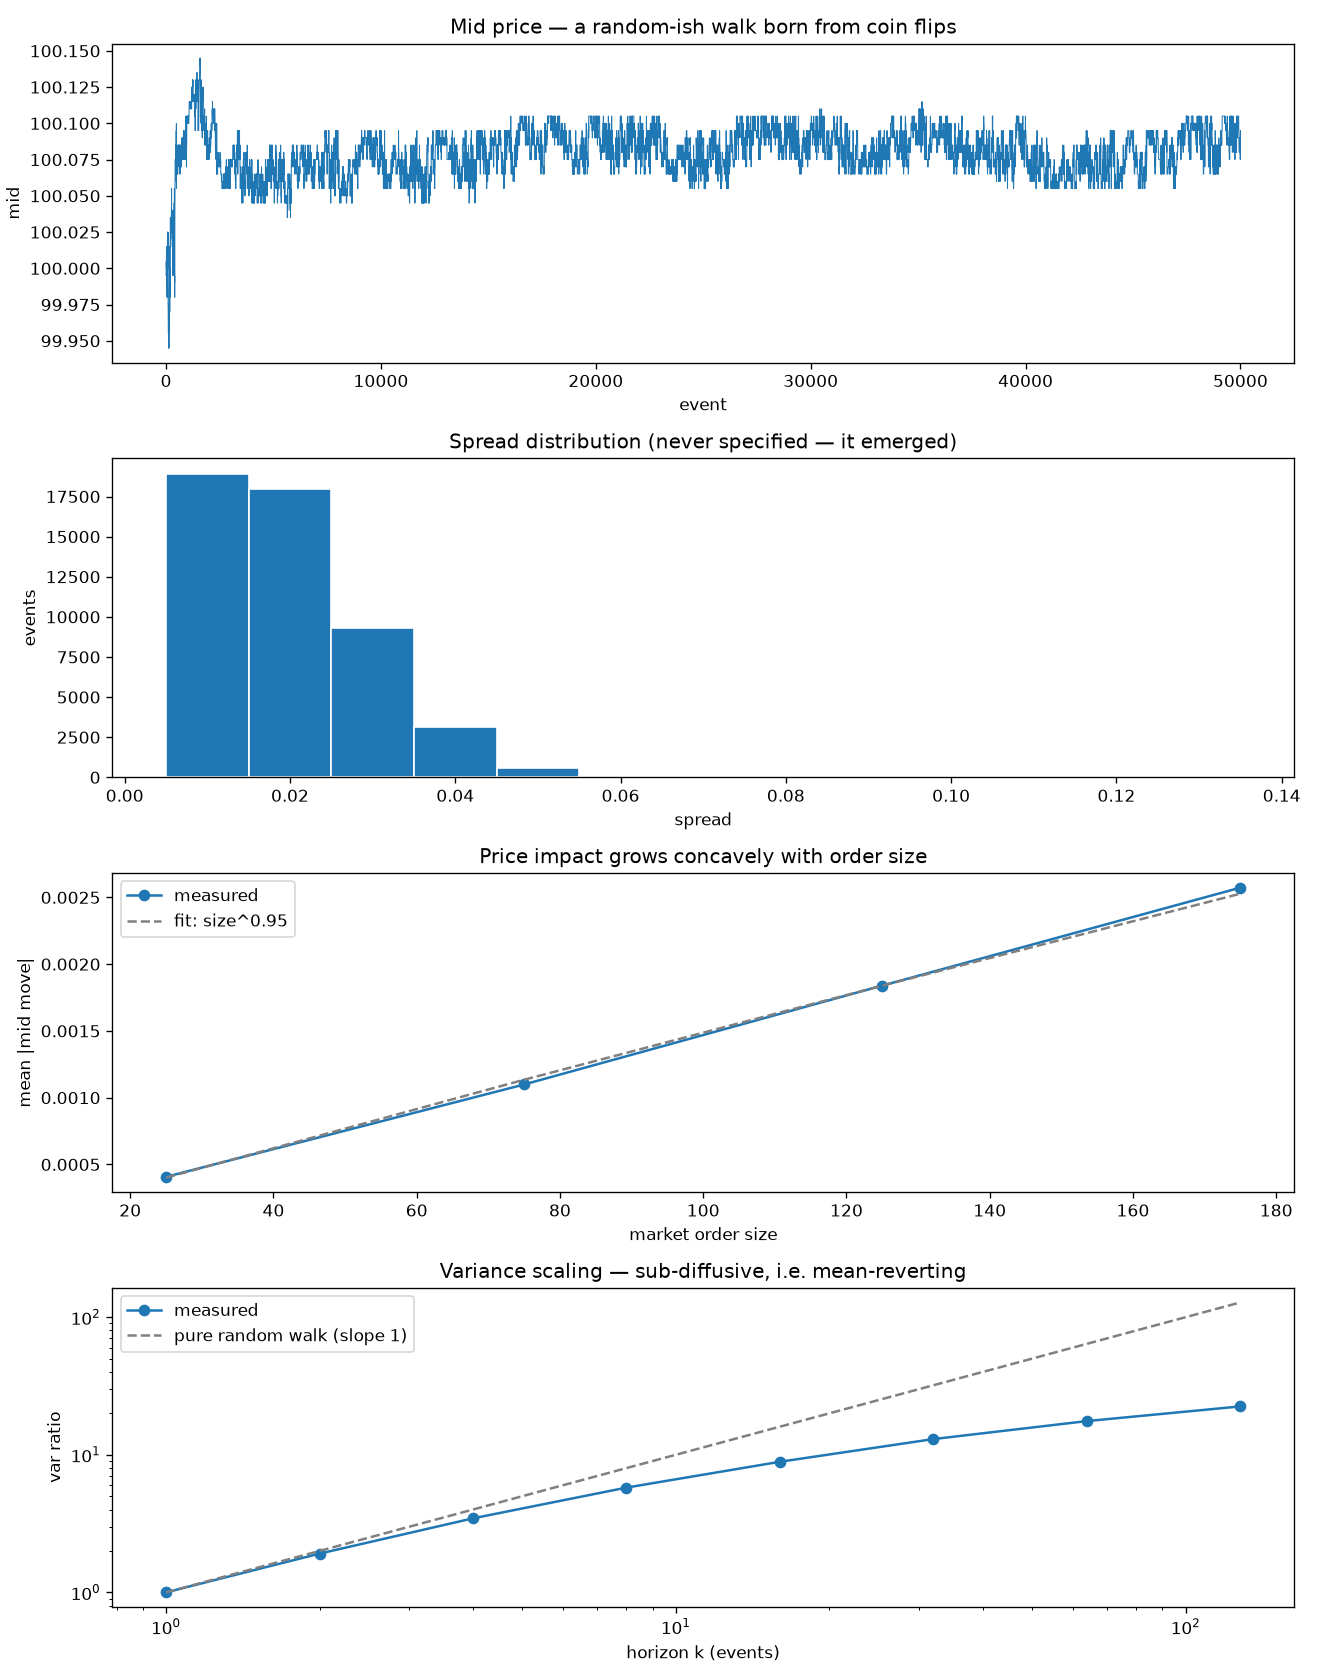
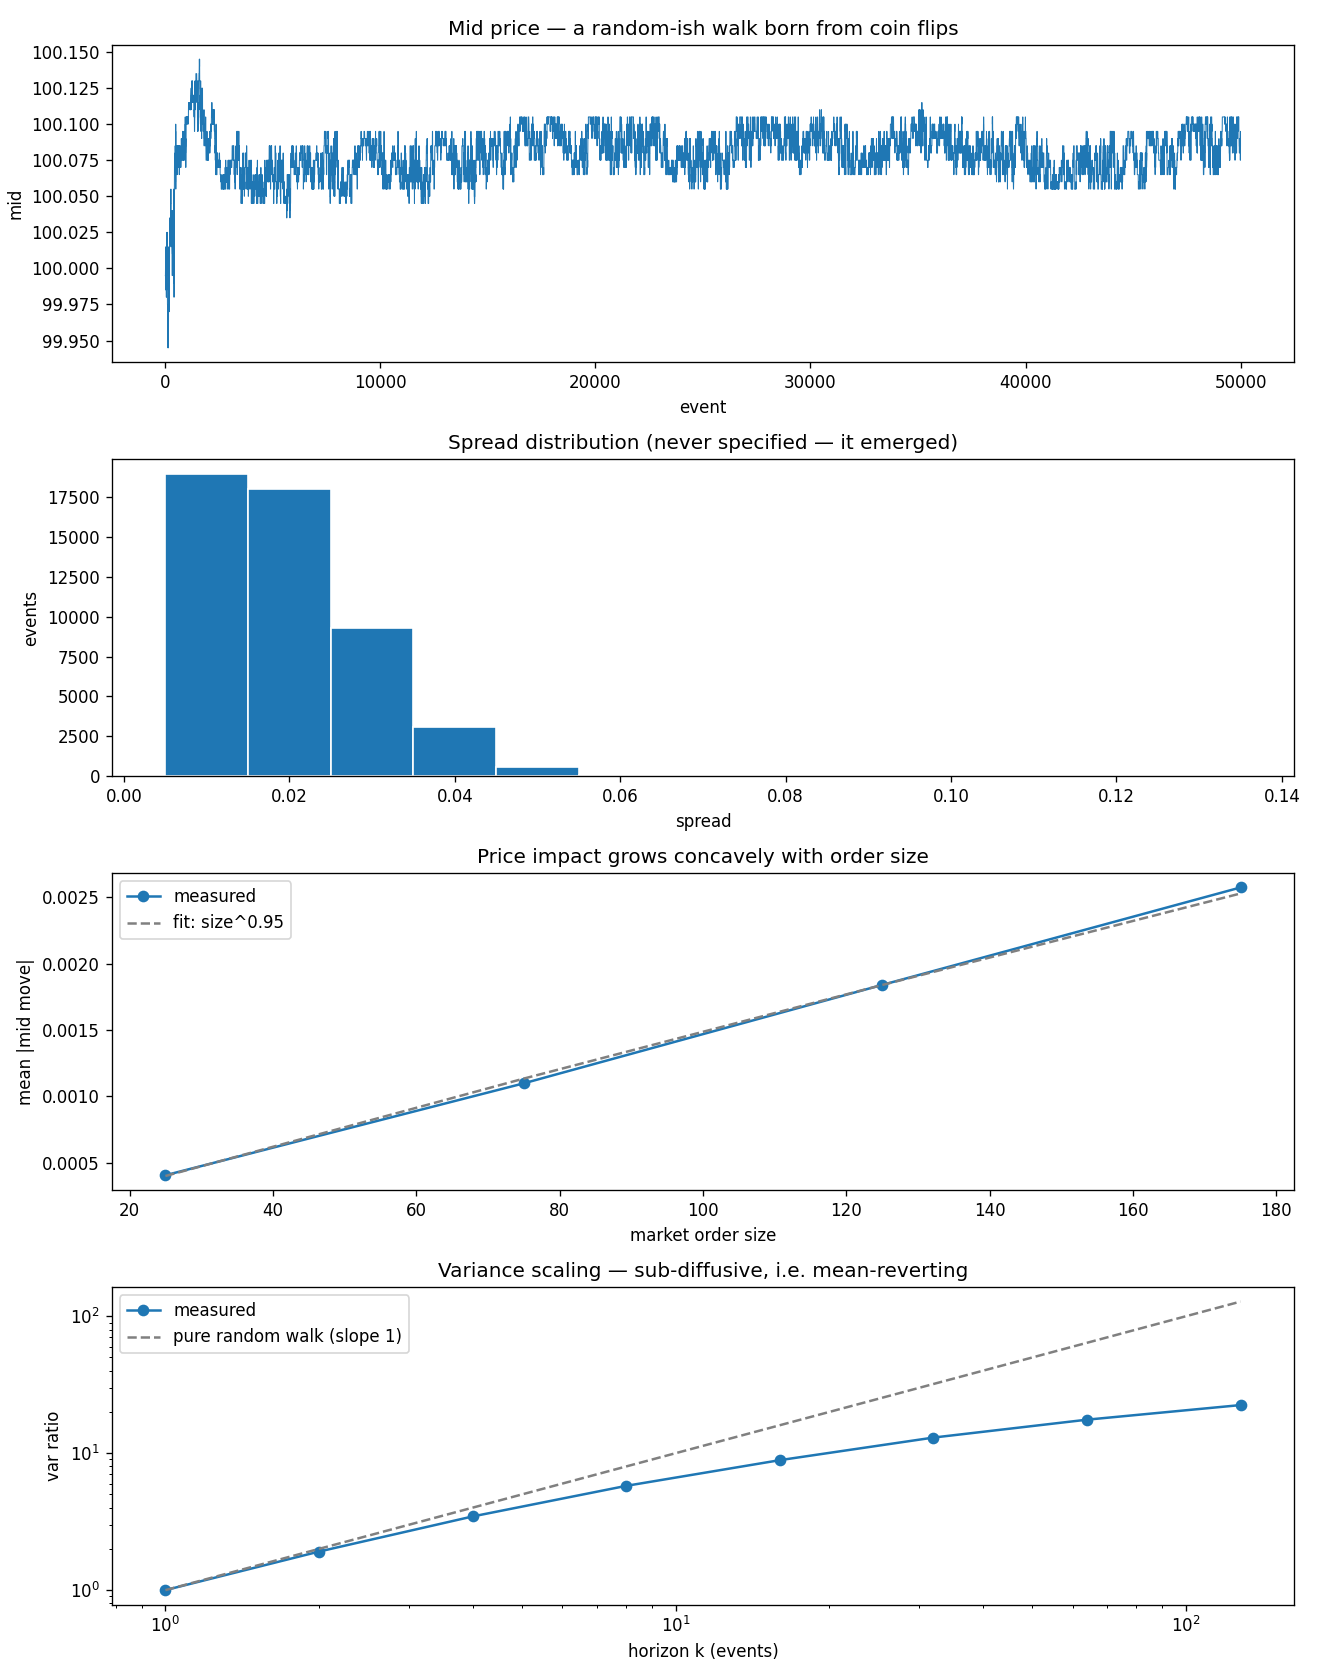
Lock in the stylized facts with regression tests
RESULTS.md claims sublinear impact and a sub-diffusive mid from one run
of run_simulation.py, but nothing would fail if a future change to the
matching engine or the order-flow mix quietly broke either one. Pulled
the power-law and Hurst fits out of run_simulation.py into reusable
functions (impact_exponent, hurst_exponent) and added tests/test_stylized_facts.py
against them.

The two findings aren't equally robust and the tests say so: swept seeds
1-7 at several sample sizes first, and the Hurst exponent comes back at
0.31-0.36 every single time, but the impact exponent ranges from 0.84 to
1.23 at 8k events and can still land at 0.99 (or barely over 1.0) even
at the 50k-event reporting scale. So impact concavity is tested as a
5-seed average against 0.98, not asserted seed-by-seed, and that's
explained in the docstring rather than quietly loosened.

Claude-Session: https://claude.ai/code/session_01CariVea9RWESZzJ2pEL1Dd

diff --git a/tests/test_stylized_facts.py b/tests/test_stylized_facts.py
@@ -1,0 +1,74 @@
+"""Regression tests for the headline findings in RESULTS.md.
+
+Those numbers came from one run of run_simulation.py (50k events, seed 7)
+and were never locked in anywhere - a change to the matching engine or the
+flow mix could quietly flip "sublinear impact" or "sub-diffusive mid" and
+nothing would fail. These pin the qualitative claims down.
+
+The two findings are not equally robust, and the tests below say so instead
+of hiding it. Sweeping seed 1-7 at several sample sizes: the Hurst exponent
+comes back in a tight 0.31-0.36 band every time, no exceptions. The impact
+exponent is noisier - individual seeds land anywhere from 0.84 to 1.23 at
+8k events, and even at the reporting scale (50k) an unlucky seed can land
+at 0.99 or, rarely, just over 1.0. The mechanism really is concave on
+average; any single seed's bucket-mean fit is a small-sample estimate of
+it and shouldn't be asserted against on its own.
+"""
+
+from src.orderbook import LimitOrderBook
+from src.simulator import hurst_exponent, impact_exponent, seed_book, simulate
+
+REPORTING_N_EVENTS = 50_000
+REPORTING_SEED = 7  # matches RESULTS.md exactly
+
+
+def run(n_events=REPORTING_N_EVENTS, seed=REPORTING_SEED):
+    book = LimitOrderBook()
+    seed_book(book, mid=100.0, levels=5, qty=100)
+    return simulate(book, n_events=n_events, seed=seed)
+
+
+class TestPriceImpactIsConcave:
+    def test_matches_results_md_at_the_reporting_seed(self):
+        """Same seed and event count as RESULTS.md section 3 - this is the
+        number in the table, not an approximation of it."""
+        result = run()
+        assert impact_exponent(result["impacts"]) < 1.0
+
+    def test_mean_exponent_across_seeds_is_concave(self):
+        """A single seed's fit can drift close to, or slightly past, 1.0 -
+        see the module docstring. Average a handful of seeds instead of
+        demanding every one individually stay under the line."""
+        exponents = [impact_exponent(run(seed=s)["impacts"]) for s in range(1, 6)]
+        assert sum(exponents) / len(exponents) < 0.98
+
+
+class TestMidIsSubDiffusive:
+    def test_matches_results_md_at_the_reporting_seed(self):
+        """RESULTS.md section 4: H = 0.32 at 50k events, seed 7."""
+        result = run()
+        H = hurst_exponent(result["mids"])
+        assert 0.25 < H < 0.40
+
+    def test_holds_across_seeds_no_exceptions(self):
+        """Unlike impact concavity, this one doesn't need averaging - it
+        held for every seed tried during development, small or large n."""
+        for seed in range(1, 6):
+            result = run(n_events=8000, seed=seed)
+            assert hurst_exponent(result["mids"]) < 0.5
+
+
+class TestSpreadHasATickFloor:
+    def test_never_below_one_tick(self):
+        """The book can't cross itself, so the spread has a hard floor at
+        one tick (0.01) - RESULTS.md section 1's "min 0.0100 (one tick)"."""
+        result = run(n_events=8000, seed=1)
+        assert all(s >= 0.0099 for s in result["spreads"])
+
+    def test_spends_meaningful_time_at_the_floor(self):
+        """RESULTS.md found 37.9% of events at the 1-tick minimum. Not
+        pinning the exact share, just that it's a real fraction of the
+        time and not a rare edge case."""
+        result = run(n_events=8000, seed=1)
+        at_floor = sum(1 for s in result["spreads"] if s <= 0.0100001)
+        assert at_floor / len(result["spreads"]) > 0.10

diff --git a/src/simulator.py b/src/simulator.py
@@ -110,3 +110,39 @@ def simulate(book: LimitOrderBook, n_events: int = 5000, seed: int = 0) -> dict:
 
     return {"mids": mids, "spreads": spreads, "n_trades": n_trades,
             "volume": volume, "impacts": impacts}
+
+
+def impact_exponent(impacts: list[tuple[int, float]],
+                    buckets=(0, 50, 100, 150, 200)) -> float:
+    """Power-law fit impact ~ size^b from (order size, |mid move|) pairs.
+
+    b < 1 is concave (sublinear) impact - the stylized fact in RESULTS.md
+    section 3. Bucketing before the log-log fit matches what run_simulation.py
+    reports, so this is the same number, just made reusable for a test.
+    """
+    import numpy as np
+    import pandas as pd
+
+    df = pd.DataFrame(impacts, columns=["qty", "impact"])
+    df["bucket"] = pd.cut(df["qty"], buckets)
+    table = df.groupby("bucket", observed=True)["impact"].mean()
+    x = np.log(np.array([b.mid for b in table.index], dtype=float))
+    y = np.log(table.values)
+    slope, _ = np.polyfit(x, y, 1)
+    return float(slope)
+
+
+def hurst_exponent(mids: list[float],
+                   horizons=(1, 2, 4, 8, 16, 32, 64, 128)) -> float:
+    """Fit var(mid[t+k] - mid[t]) ~ k^(2H) across horizons k.
+
+    H = 0.5 is a pure random walk, H < 0.5 is mean-reverting (sub-diffusive)
+    - the stylized fact in RESULTS.md section 4.
+    """
+    import numpy as np
+
+    m = np.asarray(mids, dtype=float)
+    var1 = np.var(m[1:] - m[:-1])
+    ratios = [np.var(m[k:] - m[:-k]) / var1 for k in horizons]
+    slope, _ = np.polyfit(np.log(horizons), np.log(ratios), 1)
+    return float(slope / 2)

diff --git a/run_simulation.py b/run_simulation.py
@@ -20,7 +20,7 @@ import pandas as pd
 
 from src.order import Side
 from src.orderbook import LimitOrderBook
-from src.simulator import seed_book, simulate
+from src.simulator import hurst_exponent, impact_exponent, seed_book, simulate
 
 N_EVENTS = 50_000
 SEED = 7
@@ -75,9 +75,10 @@ def main() -> None:
         print(f"{str(bucket):>14} {row['mean']:>17.6f} {int(row['count']):>8,}")
 
     # fit impact ~ a * qty^b on the bucket means; b < 1 means concave impact
+    b_exp = impact_exponent(result["impacts"])
     x = np.log(np.array([b.mid for b in table.index], dtype=float))
     y = np.log(table["mean"].values)
-    b_exp, log_a = np.polyfit(x, y, 1)
+    log_a = np.polyfit(x, y, 1)[1]
     print(f"\npower-law fit: impact ~ size^{b_exp:.2f}")
     print("Exponent below 1 means CONCAVE impact - doubling the order size costs")
     print("less than double. Real markets sit nearer 0.5 (square-root impact);")
@@ -100,7 +101,8 @@ def main() -> None:
 
     # var(k) ~ k^(2H): H = 0.5 is a random walk, H < 0.5 is mean-reverting
     slope = np.polyfit(np.log(ks_all), np.log(var_ratios), 1)[0]
-    print(f"\nfitted scaling: var ~ k^{slope:.2f}  ->  Hurst exponent H = {slope / 2:.2f}")
+    H = hurst_exponent(result["mids"], ks_all)
+    print(f"\nfitted scaling: var ~ k^{slope:.2f}  ->  Hurst exponent H = {H:.2f}")
     print("(H = 0.50 is a pure random walk; H < 0.50 is mean-reverting)")
     print("\nA pure random walk doubles its variance when you double the horizon,")
     print("so the last two columns would match. They do not: variance grows more")
